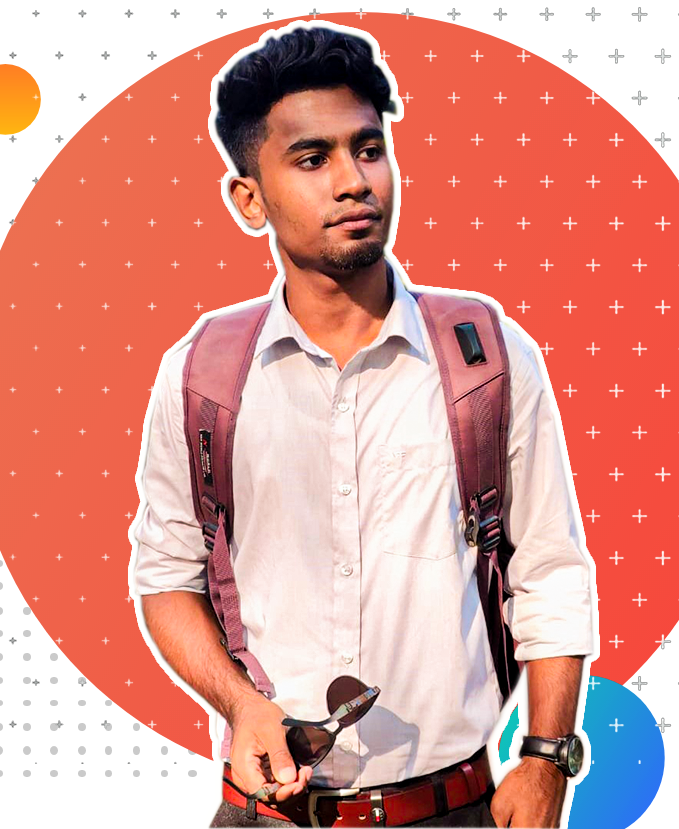
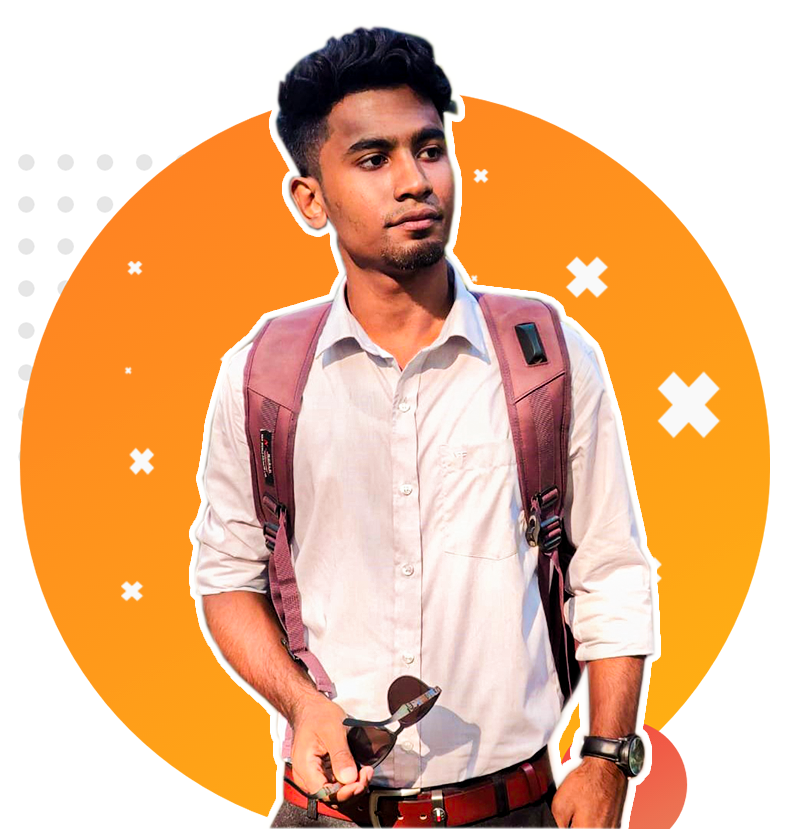
message

diff --git a/style.css b/style.css
@@ -1,5 +1,5 @@
 body{
-    
+    margin: 0;
     font-family: 'Hedvig Letters Sans', sans-serif;
 
 
@@ -21,4 +21,15 @@ h1{
 }
 .half-width img{
     width: 70%;
+}
+.top-banner{
+    background-image: url(image/top-banner.png);
+    background-repeat: no-repeat;
+    
+    
+
+}
+section{
+    height: 500px;
+
 }

diff --git a/index.html b/index.html
@@ -17,7 +17,7 @@
 </head>
 
 <body>
-    <section>
+    <section class="top-banner">
         <div class="half-width">
             <h1>Welcome To</h1>
         <h1><span class="my-name1">Minhaj</span> Website</h1>
